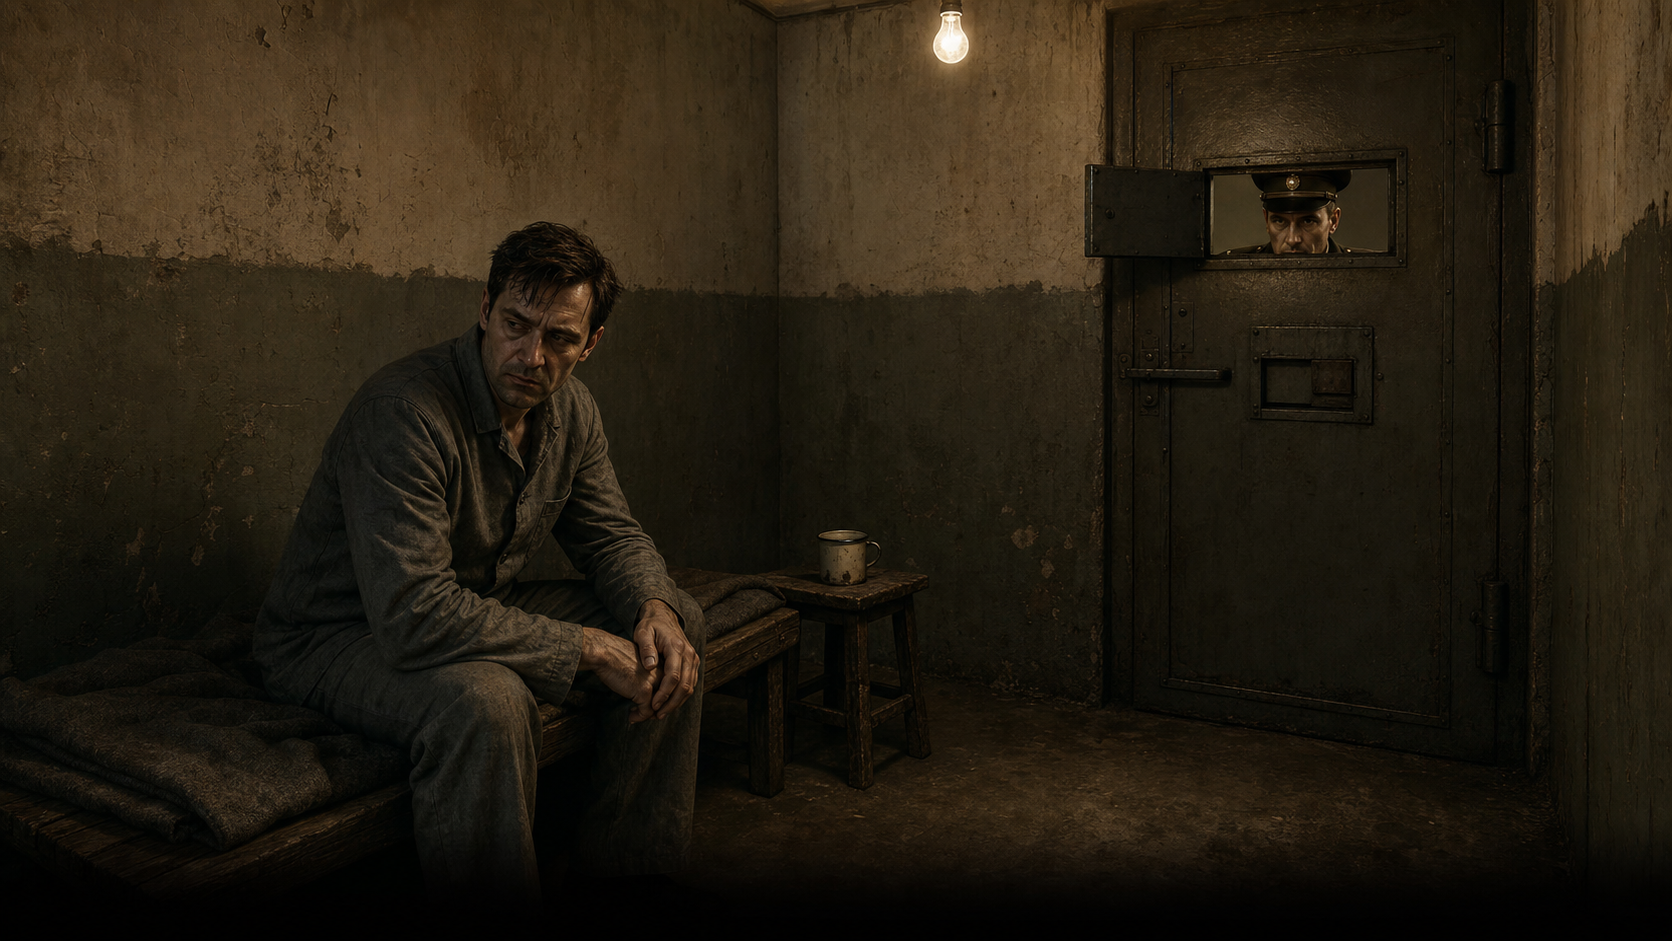
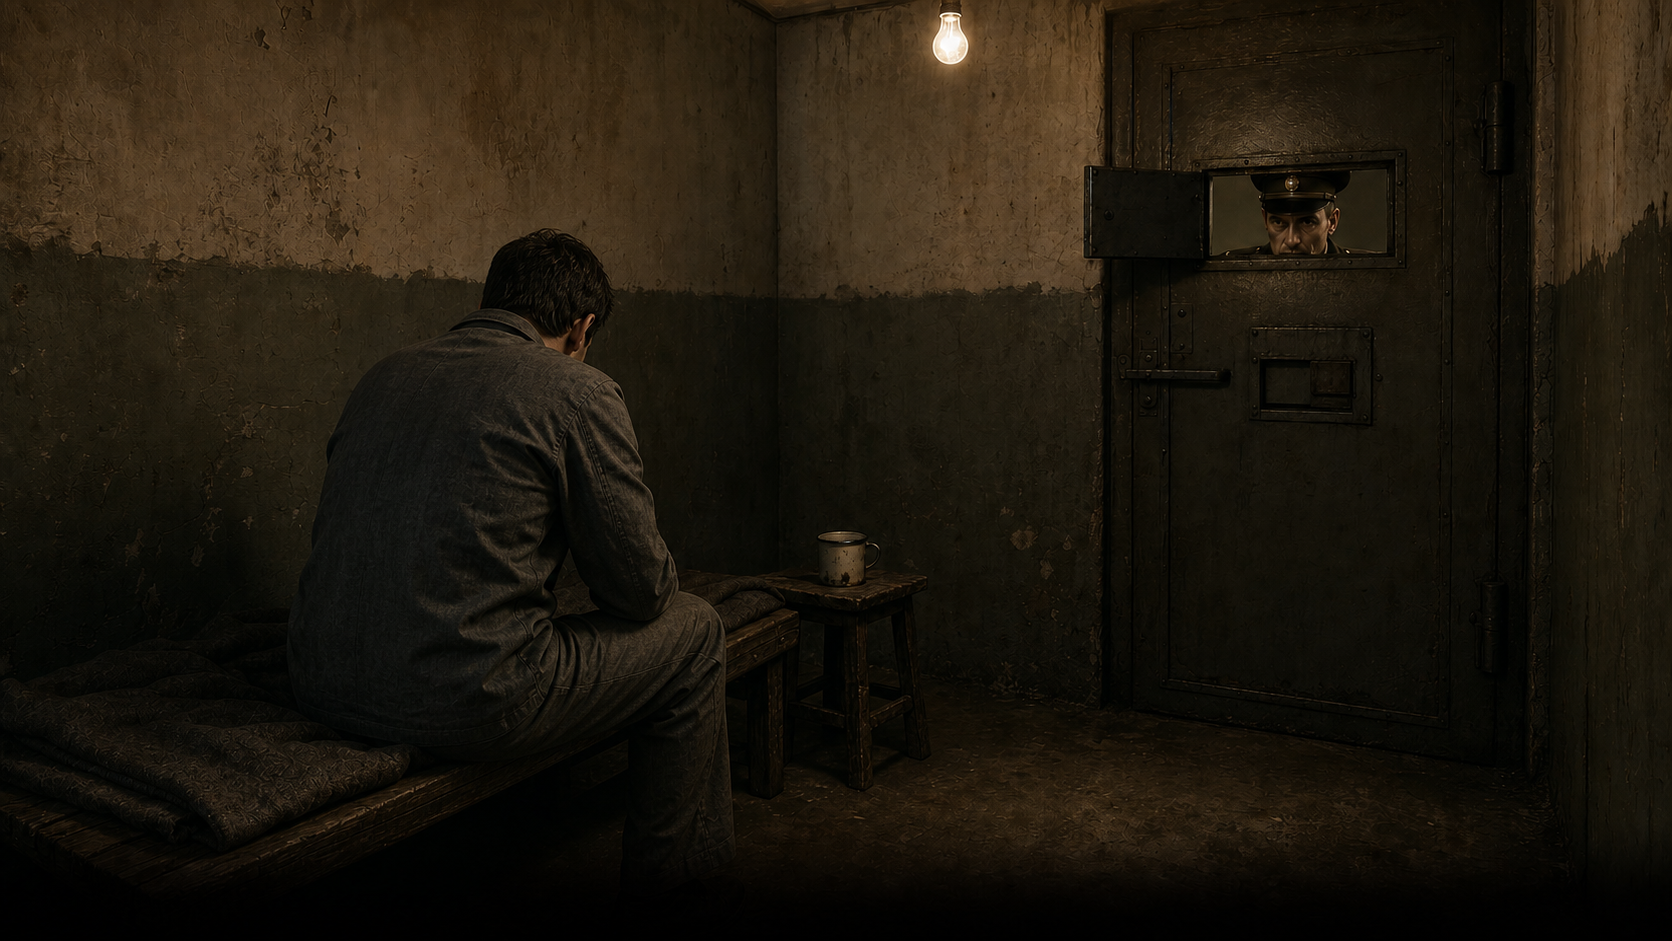
Deepen custody Rex and tactical economy

diff --git a/tests/custody-rex-economy-audit.test.js b/tests/custody-rex-economy-audit.test.js
@@ -1,0 +1,71 @@
+const assert = require('assert');
+const fs = require('fs');
+const path = require('path');
+const vm = require('vm');
+
+const root = path.join(__dirname, '..');
+const html = fs.readFileSync(path.join(root, 'index.html'), 'utf8');
+
+assert(html.includes("window.SCHATTEN_VERSION = 'v7.12.1230 +Gewahrsam-Rex-Taktik-Audit'"), 'version constant is stale');
+
+const custodyStart = html.indexOf('function _custodyVerhoerState()');
+const custodyEnd = html.indexOf('// v7.11.44: Custody-Switch-Counter', custodyStart);
+assert(custodyStart >= 0 && custodyEnd > custodyStart, 'cannot isolate custody interrogation state machine');
+
+let paid = 0;
+const custodyContext = {
+  caseProgress: {},
+  karlInStasiCustody: true,
+  diag: () => {},
+  _geldZahle: (amount) => { paid += amount; return true; },
+};
+vm.createContext(custodyContext);
+vm.runInContext(html.slice(custodyStart, custodyEnd), custodyContext);
+
+let state = custodyContext._custodyVerhoerWahlAnwenden({ _custodyAction: 'SCHWEIGEN' });
+assert.deepStrictEqual([state.runden, state.druck, state.verweigerung], [1, 1, 1], 'silence must build pressure and refusal');
+state = custodyContext._custodyVerhoerWahlAnwenden({ _custodyAction: 'PROTOKOLL' });
+assert.deepStrictEqual([state.runden, state.druck, state.verweigerung], [2, 3, 2], 'challenging the interrogator must escalate pressure');
+state = custodyContext._custodyVerhoerWahlAnwenden({ _custodyAction: 'HALBWAHRHEIT' });
+assert.deepStrictEqual([state.runden, state.druck, state.kooperation], [3, 2, 1], 'half-truths must lower pressure without ending custody');
+state = custodyContext._custodyVerhoerWahlAnwenden({ _custodyAction: 'ROTH' });
+assert.deepStrictEqual([state.runden, state.druck, state.rothHebel], [4, 1, 1], 'Roth leverage must be tracked');
+state = custodyContext._custodyVerhoerWahlAnwenden({ _custodyAction: 'BESTECHEN' });
+assert.strictEqual(paid, 10, 'custody bribe must actually spend ten Ostmark');
+assert.deepStrictEqual([state.runden, state.druck, state.kooperation, state.bestechungen], [5, 0, 2, 1], 'successful bribe must soften pressure and remain recorded');
+
+for (const action of ['SCHWEIGEN', 'HALBWAHRHEIT', 'ROTH', 'PROTOKOLL', 'BESTECHEN', 'LAUSCHEN']) {
+  assert(html.includes("id: '" + action + "'"), 'custody menu misses action ' + action);
+}
+assert(html.includes('verhoer.runden >= 3 && verhoer.druck >= 3 && verhoer.verweigerung >= 2'), 'custody death must require repeated escalation');
+assert(html.includes("verfassung === 'number' && verfassung <= 2"), 'custody death must require critical health');
+assert(html.includes('Math.min(0.18, chance)'), 'custody death risk must retain a hard cap');
+assert(html.includes('stasiCustodyScenesSince >= 3'), 'routine custody should allow release by the following morning');
+assert(html.includes('caseProgress._custodyCountedScene !== custodySceneMark'), 'custody duration must count distinct scenes, not UI rerenders');
+assert(html.includes('NOTFLUCHT ist der einzige sofortige Ausbruch'), 'custody prompt must distinguish escape from routine morning release');
+assert(html.includes('const resetFolter = (opts.resetFolter !== undefined) ? opts.resetFolter : stateChanged;'), 'repeated custody detection must not reset interrogation progress');
+
+assert(html.includes("const HUND_PREIS = 3;"), 'Rex must retain exchange value three');
+assert(html.includes("const HUND_HEIMAT = 'Goldener Anker';"), 'Rex must remain tied to the Goldener Anker');
+assert(html.includes('caseProgress.hundDaWuerfel = harteLage || (Math.random() < 0.75);'), 'hard cases must guarantee Rex while lighter cases keep variation');
+assert(html.includes("bar.textContent = 'Bar zahlen · ' + bargeldPreis + ' Ostmark';"), 'trade overlay needs a real cash alternative');
+assert(html.includes("_geldZahle(bargeldPreis, 'ost', 'Tauschzahlung @ '"), 'cash trade must deduct persistent money');
+
+for (const item of ['Stinkbombe im Blechmantel', 'Bündel Knallfrösche und Raketen', 'Gebrauchte Handschellen', 'Kurzer Gummiknüppel']) {
+  assert(html.includes(item), 'Trude/tactical catalog misses ' + item);
+}
+assert(html.includes("verbrauchbar: false"), 'reusable control gear needs explicit persistence');
+assert(html.includes("['werfen', 'werfen_fuesse', 'angreifen_mit', 'fesseln']"), 'confrontation consumption must understand handcuffs');
+
+const cellPath = path.join(root, 'assets', 'scenes', 'vogt', 'hohenschoenhausen-zelle.png');
+assert(fs.existsSync(cellPath), 'dedicated custody cell image is missing');
+const png = fs.readFileSync(cellPath);
+assert.strictEqual(png.toString('ascii', 1, 4), 'PNG', 'custody cell asset is not a PNG');
+const width = png.readUInt32BE(16);
+const height = png.readUInt32BE(20);
+assert(width >= 1200 && height >= 650, 'custody cell image is too small for the scene renderer');
+assert(Math.abs((width / height) - (16 / 9)) < 0.08, 'custody cell image must retain the cinematic 16:9 frame');
+assert(html.includes("place: 'MfS-Gewahrsam Hohenschoenhausen, Zelle 14'"), 'custody image needs a truthful interior location label');
+assert(html.includes('abgewandtem, nicht erkennbarem Gesicht'), 'custody image contract must keep Karl anonymous');
+
+console.log('CUSTODY_REX_ECONOMY_AUDIT_OK');

diff --git a/tests/konfrontation-ui.test.js b/tests/konfrontation-ui.test.js
@@ -4,7 +4,7 @@ const path = require('path');
 
 const html = fs.readFileSync(path.join(__dirname, '..', 'index.html'), 'utf8');
 
-assert(html.includes('Schatten v7.12.1229'), 'version badge should be bumped');
+assert(html.includes('Schatten v7.12.1230'), 'version badge should be bumped');
 assert(html.includes('KONFRONTATION_TAG_TOOLTIPS'), 'missing confrontation tooltip registry');
 assert(html.includes('function _konfrontationWuerfleAusgang'), 'missing randomized confrontation outcome helper');
 assert(html.includes("const alkoholMalus = Math.min(3, Math.max(0, Number(caseProgress && caseProgress.alkohol) || 0));"), 'alcohol must reduce confrontation reliability');
@@ -23,7 +23,7 @@ assert(html.includes('function _hauptuiKonfrontationChooseNarration'), 'confront
 assert(html.includes('window.__hauptuiKonfrontationState'), 'confrontation moves need the same select-then-execute buffer as normal actions');
 assert(html.includes('chooseMove(act.key, act.label, null)'), 'base confrontation actions must select first, not execute immediately');
 assert(html.includes('chooseMove(act.verb, act.label, act.item)'), 'item confrontation actions must select first, not execute immediately');
-assert(html.includes('_hauptuiKonfrontationAktion(selectedMove.aktion, enemy, selectedMove.item || null, selectedAssist)'), 'execute button must be the only confrontation action handoff');
+assert(html.includes('_hauptuiKonfrontationAktion(selectedMove.aktion, enemy, selectedMove.item || null, selectedAssists)'), 'execute button must be the only confrontation action handoff');
 assert(!html.includes('_hauptuiKonfrontationAktion(act.key'), 'base confrontation buttons must not execute directly');
 assert(!html.includes('_hauptuiKonfrontationAktion(act.verb'), 'item confrontation buttons must not execute directly');
 
@@ -44,16 +44,25 @@ assert(actionBody.includes("id: 'KONFRONTATION_ITEM_'"), 'item actions must crea
 assert(html.includes('Leere Haende'), 'bare-handed attacks need an explicit risky fallback plan');
 assert(html.includes('function _konfrontationBegleiterAktionen()'), 'active companions need actions in the current confrontation UI');
 assert(html.includes("assistLabel.textContent = 'Begleiteraktion';"), 'companion moves need a distinct confrontation section');
-assert(html.includes("kState.assistKey = kState.assistKey === act.key ? null : act.key;"), 'companion moves must use select-then-execute interaction');
-assert(html.includes('_hauptuiKonfrontationAktion(selectedMove.aktion, enemy, selectedMove.item || null, selectedAssist)'), 'Karl and companion moves must execute as one tactical command');
-assert(html.includes('TEAMAKTION (PFLICHT)'), 'combined moves must force both actors into narrative prose');
+assert(html.includes("kState.assistKeys[act.name] = act.key;"), 'each companion must have an independently selectable move');
+assert(html.includes('const selectedAssists = companionActions.filter'), 'multiple companion moves must be collected for one tactical command');
+assert(html.includes('_hauptuiKonfrontationAktion(selectedMove.aktion, enemy, selectedMove.item || null, selectedAssists)'), 'Karl and all selected companion moves must execute as one tactical command');
+assert(html.includes('TEAMAKTIONEN (PFLICHT)'), 'combined moves must force every selected actor into narrative prose');
 assert(html.includes("label: 'Rex: Fixieren'"), 'Rex must be transferable into the current confrontation UI');
+assert(html.includes("label: 'Rex: Verjagen'"), 'Rex needs a fast non-lethal resolution against weak opposition');
+assert(html.includes("label: 'Rex: Tief ansetzen'"), 'Rex needs the requested dark slapstick maneuver');
+assert(html.includes('function _konfrontationIstGruppe'), 'multi-enemy encounters need explicit group handling');
+assert(html.includes('neutralisiert ihren Überzahlvorteil'), 'area items must counter the numerical advantage of groups');
 
 assert(html.includes('Kaffee-Staub'), 'coffee needs distinct mild effect copy');
 assert(html.includes('Glas und Korn'), 'Doppelkorn needs distinct stronger effect copy');
 assert(html.includes('AEG-Wucht'), 'toaster needs heavy effect copy');
 assert(html.includes('Sahne und Klebrigkeit'), 'cake needs a distinct blinding distraction effect');
 assert(html.includes('Schwere Haushaltswucht'), 'household weapons need a distinct heavy effect');
+assert(html.includes('Feuerwerks-Salve'), 'fireworks need a distinct area effect');
+assert(html.includes('Beißender Gestank'), 'stink bombs need a distinct area effect');
+assert(html.includes('Mechanische Kontrolle'), 'handcuffs need an explicit control effect');
+assert(html.includes('Kontrollierte Knüppelwucht'), 'baton needs a distinct controlled impact effect');
 assert(html.includes('Irritation +'), 'item cards should expose irritation strength');
 assert(html.includes('Schwächung +'), 'item cards should expose weakening strength');
 assert(html.includes('Gegnerstaerke'), 'outcome prompt should include enemy strength');

diff --git a/tests/hauptui-smoke.test.js b/tests/hauptui-smoke.test.js
@@ -72,6 +72,7 @@ assert(html.includes('const _festnahmeVarianten = ['), 'custody entry should use
 assert(html.includes('const _festnahmeZeit ='), 'custody entry should respect time of day');
 assert(html.includes("if (romance.canApproach) return { key: 'naeher', label: 'Näher kommen' }"), 'Haupt-UI should expose romance directly beside person actions');
 assert(html.includes("if (verb === 'naeher' || verb === 'nacht')"), 'Haupt-UI should execute romance without opening the NPC submenu');
+assert(!html.includes('function _hauptuiExecuteLegacyVor1155'), 'obsolete Haupt-UI executor must be removed instead of shadowing live actions');
 assert(html.includes('if (showRomanceButton && !window.HAUPTUI_AKTIV)'), 'legacy romance button must not duplicate the Haupt-UI action');
 
 assert(html.includes('function _nachtHatErreichbareErmittlung()'), 'night guidance should inspect whether evidence is currently reachable');
@@ -292,6 +293,18 @@ assert.strictEqual(context._hauptuiZielHinweis(finishedMarlene, 'Person'), 'Beha
 context.window._healerMenuState = { doc: true, marlene: false };
 assert.deepStrictEqual(Array.from(context._hauptuiPersonVerben({ id: 'doc_wagner', name: 'Doc Wagner', typ: 'person' }, {})).map((verb) => verb.key), ['reden', 'heilen_doc'], 'Doc Wagner must expose conversation and treatment together');
 context.window._healerMenuState = null;
+
+const directRomance = { id: 'lilo_brenner', name: 'Lilo Brenner', typ: 'person' };
+context.getNpcsAtCurrentLocation = () => [directRomance];
+context._hauptuiExecute('naeher', directRomance);
+assert.strictEqual(calls.options[calls.options.length - 1].id, 'HAUPTUI_ROMANTIK', 'direct romance must execute through the live Haupt-UI path');
+assert.strictEqual(calls.options[calls.options.length - 1]._romanceNpc, directRomance.name, 'direct romance must preserve the selected NPC');
+const directMarlene = { id: 'marlene_wagner', name: 'Marlene Wagner', typ: 'person' };
+context.getNpcsAtCurrentLocation = () => [directMarlene];
+context._hauptuiExecute('heilen_marlene', directMarlene);
+assert.strictEqual(calls.options[calls.options.length - 1].id, 'MARLENE_HEILEN', 'direct treatment must execute through the live Haupt-UI path');
+assert.strictEqual(calls.options[calls.options.length - 1]._marleneHeal, true, 'Marlene treatment must retain its healing marker');
+context.getNpcsAtCurrentLocation = () => [voss];
 
 let acquiredFundItem = null;
 context._fundItemAufnehmenDirekt = (item) => { acquiredFundItem = item; return true; };